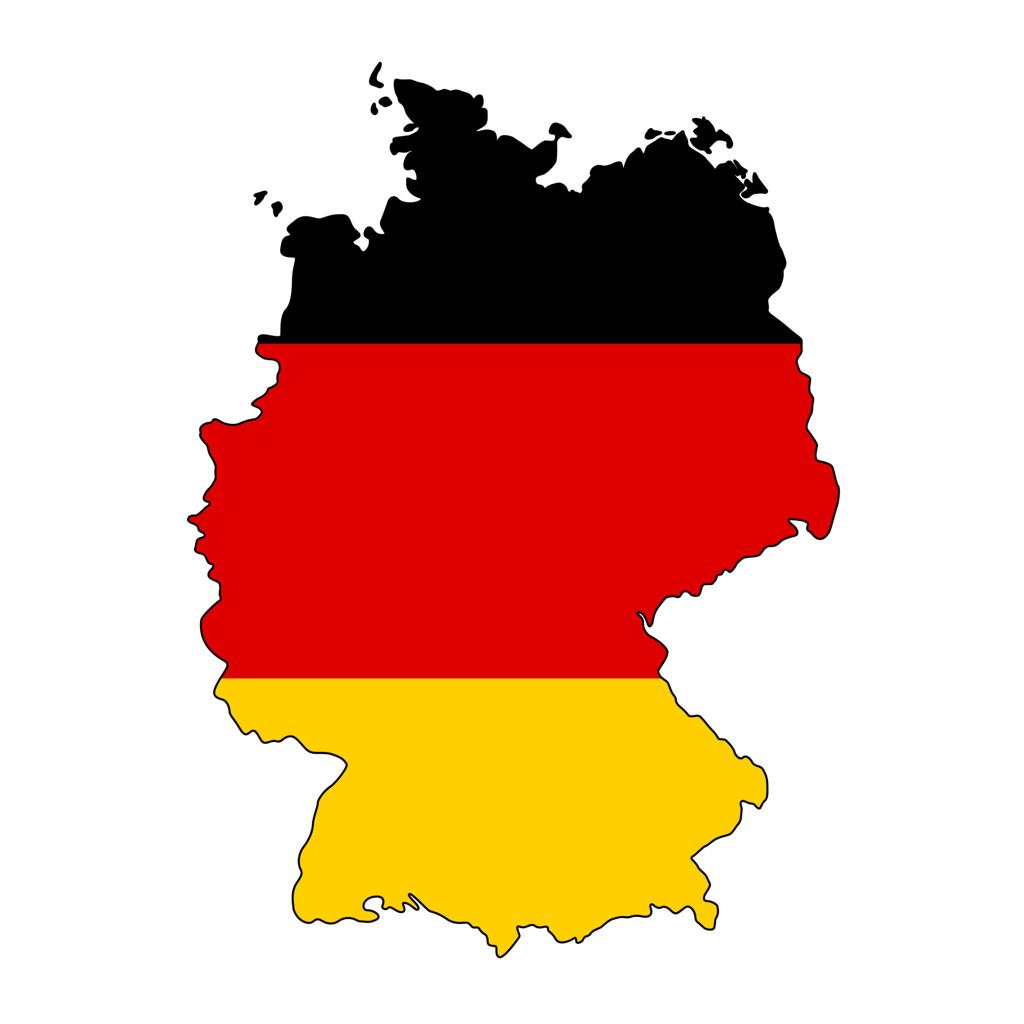
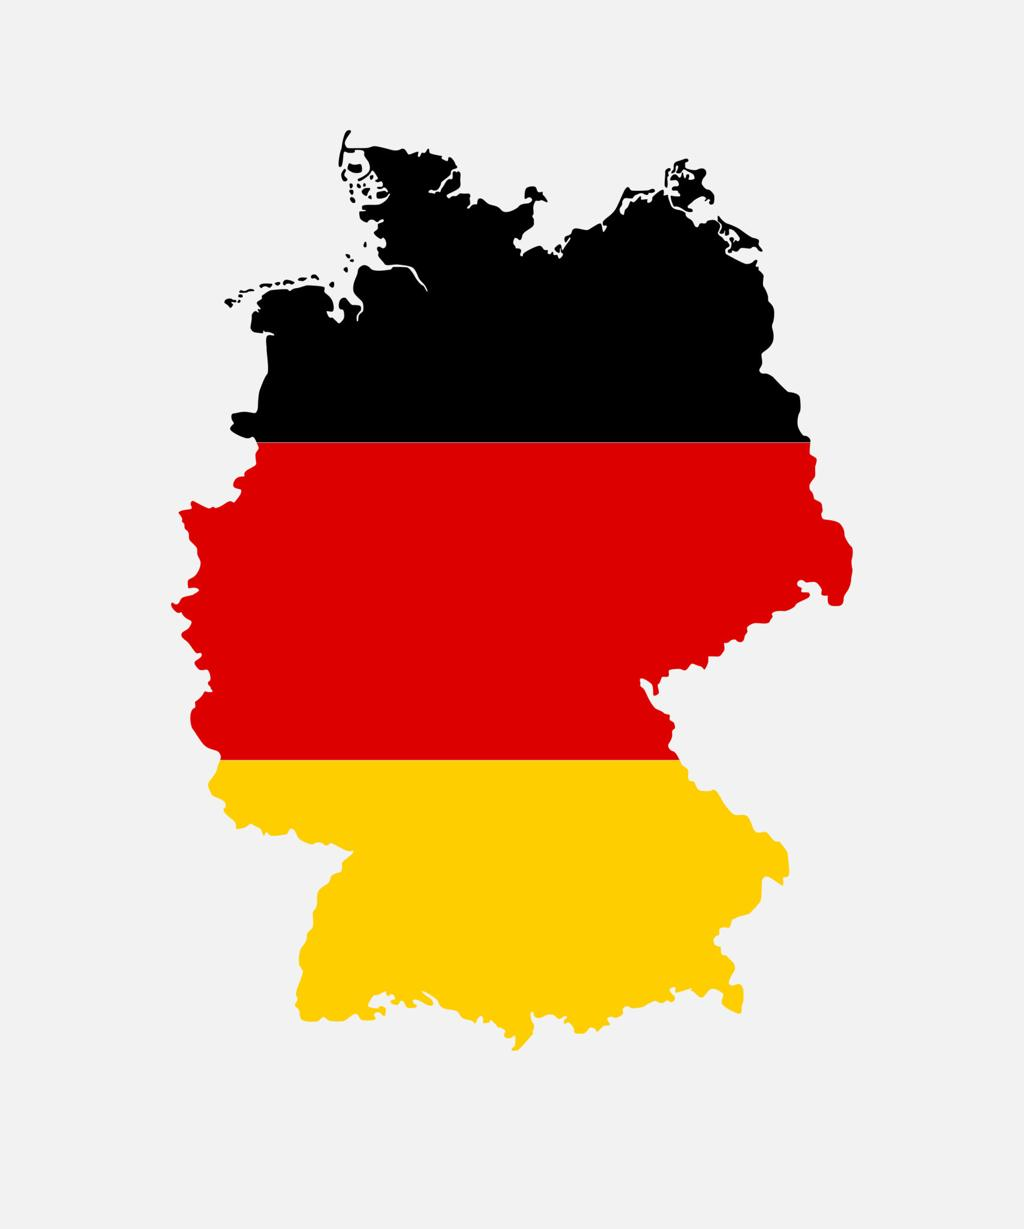
initial commit

Changed region(s): [[0.1562, 0.0625, 0.8438, 0.9375]]

diff --git a/app/components/HeroSlider.tsx b/app/components/HeroSlider.tsx
@@ -6,12 +6,31 @@ import { Swiper, SwiperSlide } from "swiper/react";
 import { Autoplay, Navigation } from "swiper/modules";
 import "swiper/css";
 import "swiper/css/navigation";
+import { useState } from "react";
 
 export default function HeroSlider() {
+  const [activeCountry, setActiveCountry] = useState<string | null>(null);
 
   const CTA_BUTTON = "mt-6 inline-flex w-fit items-center gap-2 bg-gradient-to-r from-orange-400 to-blue-500 text-white px-6 py-2 rounded-full text-sm font-medium shadow-md";
-
+const visaData: any = {
+  Canada: [
+    "PR Visa",
+    "Work Visa",
+    "Student Visa",
+    "Express Entry Program",
+    "PNP",
+    "Business Visa",
+    "Visit Visa",
+    "Digital Nomad Visa",
+  ],
+  Australia: ["Student Visa", "PR Visa", "Work Visa"],
+  Germany: ["Job Seeker Visa", "EU Blue Card", "Work Visa"],
+  UK: ["Student Visa", "Skilled Worker Visa"],
+  UAE: ["Work Visa", "Visit Visa"],
+  "New Zealand": ["Student Visa", "Work Visa", "PR Visa"],
+};
   return (
+     <>
     <Swiper
   modules={[Autoplay, Navigation]}  
   navigation                         
@@ -54,7 +73,7 @@ export default function HeroSlider() {
           World-class education, PR opportunities & global career growth
         </p>
 
-        <button className={CTA_BUTTON}>
+        <button onClick={() => setActiveCountry("Australia")} className={CTA_BUTTON}>
           Free Assessment →
         </button>
       </div>
@@ -68,7 +87,7 @@ export default function HeroSlider() {
           <div className="w-[320px] h-[320px] rounded-full overflow-hidden shadow-2xl border-4 border-white">
             <img
               src="/australia-students.jpg"
-              className="w-full h-full object-cover"
+              className="w-full h-full object-cover object-center scale-110"
             />
           </div>
 
@@ -116,7 +135,7 @@ export default function HeroSlider() {
   <br />
   opportunity card benefits
 </p>
-      <button className={`${CTA_BUTTON} mt-6`}>
+      <button onClick={() => setActiveCountry("Germany")} className={`${CTA_BUTTON} mt-6`}>
         Free Assessment →
       </button>
     </div>
@@ -198,7 +217,7 @@ export default function HeroSlider() {
         PR visas, express entry & high quality lifestyle opportunities
       </p>
 
-      <button className={CTA_BUTTON}>Free Assessment →</button>
+      <button onClick={() => setActiveCountry("Canada")} className={CTA_BUTTON}>Free Assessment →</button>
     </div>
 
     {/* RIGHT - 4 CIRCLES */}
@@ -251,7 +270,7 @@ export default function HeroSlider() {
         Top universities, global exposure & post-study work visa
       </p>
 
-      <button className={CTA_BUTTON}>Free Assessment →</button>
+      <button onClick={() => setActiveCountry("UK")} className={CTA_BUTTON}>Free Assessment →</button>
     </div>
 
     {/* 🔥 RIGHT SIDE (Option 1 – Icons List) */}
@@ -291,7 +310,7 @@ export default function HeroSlider() {
             <p className="mt-4">
               Tax-free salary & modern lifestyle opportunities
             </p>
-            <button className={CTA_BUTTON}>Free Assessment →</button>
+            <button onClick={() => setActiveCountry("UAE")} className={CTA_BUTTON}>Free Assessment →</button>
           </div>
         </div>
       </SwiperSlide>
@@ -336,7 +355,7 @@ export default function HeroSlider() {
         High quality education, peaceful lifestyle & excellent post-study work opportunities
       </p>
 
-      <button className={`${CTA_BUTTON} mt-6`}>
+    <button onClick={() => setActiveCountry("New Zealand")} className={`${CTA_BUTTON} mt-6`}>
         Free Assessment →
       </button>
 
@@ -375,5 +394,178 @@ export default function HeroSlider() {
 </SwiperSlide>
 
     </Swiper>
+   {activeCountry && (
+  <div className="fixed inset-0 bg-white z-50 flex">
+
+    {/* LEFT SIDE */}
+    <div className="w-1/3 p-16">
+    <h1 className="text-5xl font-bold bg-gradient-to-r from-orange-600 via-pink-600 to-blue-600 text-transparent bg-clip-text">
+  Choose Your Dream Destination
+</h1>
+      <p className="mt-6 text-gray-900 text-lg leading-relaxed">
+  VJC Overseas provides expert guidance to help you choose the right visa pathway for your goals.  
+  Our team ensures a smooth and transparent process from application to approval.  
+  We specialize in global immigration, study, and work visa solutions tailored to your needs.  
+  With personalized support and proven expertise, we increase your chances of visa success.  
+  Start your journey abroad with confidence and trust VJC Overseas every step of the way.
+</p>
+    </div>
+
+    {/* RIGHT SIDE CARDS */}
+    <div className="w-2/3 grid grid-cols-3 gap-8 p-10">
+
+      {/* CANADA */}
+      <div className="group [perspective:1000px]">
+        <div className="relative h-[200px] w-full duration-500 [transform-style:preserve-3d] group-hover:[transform:rotateY(180deg)]">
+
+          {/* FRONT */}
+          <div className="absolute inset-0 bg-gray-400 flex flex-col justify-center items-center relative">
+
+  <img 
+    src="/canada-map.png" 
+    className="w-full h-[70%] object-contain scale-110"
+  />
+
+  <span className="absolute bottom-4 w-full text-center text-white font-bold text-lg tracking-wide">
+    CANADA
+  </span>
+
+</div>
+
+          {/* BACK */}
+          <div className="absolute inset-0 bg-white p-4 [transform:rotateY(180deg)] [backface-visibility:hidden] overflow-y-auto">
+            {visaData.Canada.map((v: string, i: number) => (
+              <p key={i}>› {v}</p>
+            ))}
+          </div>
+
+        </div>
+      </div>
+
+      {/* AUSTRALIA */}
+      <div className="group [perspective:1000px]">
+        <div className="relative h-[200px] w-full duration-500 [transform-style:preserve-3d] group-hover:[transform:rotateY(180deg)]">
+
+          <div className="absolute inset-0 bg-gray-400 flex items-center justify-center [backface-visibility:hidden]">
+           <img 
+  src="/australia-map.png" 
+  className="w-full h-full object-cover scale-125"
+/><span className="absolute bottom-[8%] left-[2%] text-red-600 font-bold text-xl tracking-wide drop-shadow-md">
+  AUSTRALIA
+</span>
+          </div>
+
+          <div className="absolute inset-0 bg-white p-4 [transform:rotateY(180deg)] [backface-visibility:hidden]">
+            {visaData.Australia.map((v: string, i: number) => (
+              <p key={i}>› {v}</p>
+            ))}
+          </div>
+
+        </div>
+      </div>
+
+      {/* GERMANY */}
+      <div className="group [perspective:1000px]">
+        <div className="relative h-[200px] w-full duration-500 [transform-style:preserve-3d] group-hover:[transform:rotateY(180deg)]">
+
+          <div className="absolute inset-0 bg-gray-400 flex items-center justify-center [backface-visibility:hidden]">
+          <img 
+  src="/germany-map.png" 
+  className="w-full h-full object-cover scale-125"
+/>
+            <span className="absolute bottom-3 text-white font-bold">GERMANY</span>
+          </div>
+
+          <div className="absolute inset-0 bg-white p-4 [transform:rotateY(180deg)] [backface-visibility:hidden]">
+            {visaData.Germany.map((v: string, i: number) => (
+              <p key={i}>› {v}</p>
+            ))}
+          </div>
+
+        </div>
+      </div>
+
+      {/* UK */}
+      <div className="group [perspective:1000px]">
+        <div className="relative h-[200px] w-full duration-500 [transform-style:preserve-3d] group-hover:[transform:rotateY(180deg)]">
+
+          <div className="absolute inset-0 bg-gray-400 flex items-center justify-center [backface-visibility:hidden]">
+          <img 
+  src="/uk-map.png" 
+  className="w-full h-full object-cover scale-125"
+/>
+            <span className="absolute bottom-0 text-white font-bold">UK</span>
+          </div>
+
+          <div className="absolute inset-0 bg-white p-4 [transform:rotateY(180deg)] [backface-visibility:hidden]">
+            {visaData.UK.map((v: string, i: number) => (
+              <p key={i}>› {v}</p>
+            ))}
+          </div>
+
+        </div>
+      </div>
+      <div className="group [perspective:1000px]">
+  <div className="relative h-[200px] w-full duration-500 [transform-style:preserve-3d] group-hover:[transform:rotateY(180deg)]">
+
+    <div className="absolute inset-0 bg-gray-400 flex items-center justify-center [backface-visibility:hidden]">
+      <img 
+  src="/usa-map.png" 
+  className="w-full h-full object-cover scale-125"
+/>
+     <span className="absolute bottom-[0%] left-1/2 -translate-x-1/2 text-blue-900 font-bold text-xl tracking-wide drop-shadow-md">
+  USA
+</span>
+    </div>
+
+    <div className="absolute inset-0 bg-white p-4 [transform:rotateY(180deg)] [backface-visibility:hidden]">
+      {[
+        "H1B Visa",
+        "F1 Student Visa",
+        "B1/B2 Visit Visa",
+        "Green Card",
+      ].map((v, i) => (
+        <p key={i}>› {v}</p>
+      ))}
+    </div>
+
+  </div>
+</div>
+<div className="group [perspective:1000px]">
+  <div className="relative h-[200px] w-full duration-500 [transform-style:preserve-3d] group-hover:[transform:rotateY(180deg)]">
+
+    <div className="absolute inset-0 bg-gray-400 flex items-center justify-center [backface-visibility:hidden]">
+      <img 
+  src="/nz-map.png" 
+  className="w-full h-full object-cover scale-125"
+/>
+      <span className="absolute bottom-3 text-white font-bold">NEW ZEALAND</span>
+    </div>
+
+    <div className="absolute inset-0 bg-white p-4 [transform:rotateY(180deg)] [backface-visibility:hidden]">
+      {visaData["New Zealand"].map((v: string, i: number) => (
+        <p key={i}>› {v}</p>
+      ))}
+    </div>
+
+  </div>
+</div>
+
+
+    </div>
+
+    {/* CLOSE BUTTON */}
+    <button
+      onClick={() => setActiveCountry(null)}
+      className="absolute top-6 right-10 text-black text-xl"
+    >
+      ✕
+    </button>
+
+  </div>
+)}
+      
+  
+</>
   );
 }
